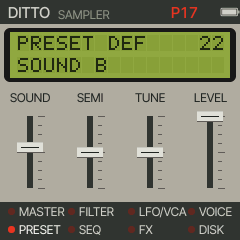
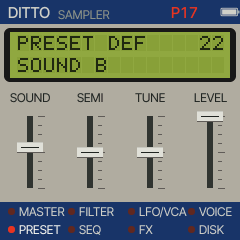
Ditto: the panel's blue: the splash (DITTO in wide heavy letters, tools/gen_logo.py) and the name and LED strips; the sliders' slots grey
Claude-Session: https://claude.ai/code/session_01TVJfaGTmFKC672U8St2zKY

Changed region(s): [[0.0, 0.8167, 1.0, 1.0], [0.0, 0.0, 1.0, 0.1167]]

diff --git a/firmware/src/golana_gfx.c b/firmware/src/golana_gfx.c
@@ -4,14 +4,14 @@
 
 /* ---------------------------------------------------------------- SPLASH --- */
 /* The power-on splash (3 s, NIGHT's colours whatever the palette): a record comes up and turns, the light on its
- * grooves going round; the tone arm swings in and sets the needle down; DITTO in block letters is uncovered by a
+ * grooves going round; the tone arm swings in and sets the needle down; DITTO in wide heavy letters is uncovered by a
  * wipe and a chrome glint crosses it, and the version comes up. Drawn at ~30 frames a second in two halves of
  * 240 x 120 (the canvas). main.c and the browser build run it (gu_splash_step); a key or a button pressed skips it
  * (the key stays silent: seq.c kb_boot_hold) */
 #define GSP_MS 3000u
-#define GSP_BG 0x0E1118u
+#define GSP_BG 0x1C346Eu                               /* the panel's blue */
 #define GSP_TEXT 0xE8E6E1u
-#define GSP_MID 0x969CACu
+#define GSP_MID 0xAABEE6u
 #define GSP_DISC 0x1A1E28u                              /* the vinyl, its grooves, the light on them */
 #define GSP_GROOVE 0x252A36u
 #define GSP_SHEEN 0x6A7186u
@@ -20,11 +20,7 @@
 #define GSP_CX 120
 #define GSP_CY 82
 #define GSP_R 60
-static const uint8_t GSP_GLYPH[5][7] = {                /* D I T T O, 5 x 7 (bit 4 the left column) */
-    {0x1E, 0x11, 0x11, 0x11, 0x11, 0x11, 0x1E}, {0x0E, 0x04, 0x04, 0x04, 0x04, 0x04, 0x0E},
-    {0x1F, 0x04, 0x04, 0x04, 0x04, 0x04, 0x04}, {0x1F, 0x04, 0x04, 0x04, 0x04, 0x04, 0x04},
-    {0x0E, 0x11, 0x11, 0x11, 0x11, 0x11, 0x0E},
-};
+#include "ditto_logo.h"                                /* DITTO, wide and heavy (tools/gen_logo.py) */
 static uint16_t gsp_rgb(uint32_t c) { return RGB((c >> 16) & 255u, (c >> 8) & 255u, c & 255u); }
 static uint16_t gsp_mix(uint32_t a, uint32_t b, int32_t k)   /* a .. b, k 0..1000 */
 {
@@ -101,22 +97,24 @@ static void gsp_draw(int32_t t)
         cv_line_t(214, 18, x, y, gsp_rgb(GSP_ARM), 3);
         cv_rect(x - 4, y - 3, 9, 7, gsp_rgb(GSP_ARM));  /* the head */
     }
-    if (t > 1300) {                                     /* DITTO: 6 x 6 px blocks (5 lit), 36 px a letter, from 33 */
-        int32_t sweep = t < 1800 ? -30 : t > 2300 ? 400 : (t - 1800) * 300 / 500 - 30, k, x, y;
-        for (k = 0; k < 5; k++)
-            for (y = 0; y < 7; y++)
-                for (x = 0; x < 5; x++) {
-                    int32_t px = 33 + k * 36 + x * 6, d = px - sweep;
-                    if (!((GSP_GLYPH[k][y] >> (4 - x)) & 1u) || px > wipe)
-                        continue;
-                    /* silver until the glint (a white band, 14 px each side) has passed over it, then the text's */
-                    cv_rect(px, 156 + y * 6, 5, 5, d > -14 && d < 14 ? gsp_mix(GSP_TEXT, 0xFFFFFFu, 1000 - (d < 0 ? -d : d) * 1000 / 14)
-                                                  : d >= 14 ? gsp_mix(GSP_TEXT, GSP_BG, 420) : gsp_rgb(GSP_TEXT));
-                }
+    if (t > 1300) {                                     /* DITTO, uncovered by the wipe, the glint crossing it */
+        int32_t sweep = t < 1800 ? -30 : t > 2300 ? 400 : (t - 1800) * 300 / 500 - 30, x, y;
+        int32_t x0 = (240 - LOGO_W) / 2, y0 = 150;
+        for (y = 0; y < LOGO_H; y++)
+            for (x = 0; x < LOGO_W && x0 + x <= wipe; x++) {
+                uint32_t a = (LOGO[(y * LOGO_W + x) >> 1] >> ((x & 1) * 4)) & 15u, c;
+                int32_t d = x0 + x - sweep;
+                if (!a)
+                    continue;
+                /* silver until the glint (a white band, 14 px each side) has passed over it, then the text's */
+                c = d > -14 && d < 14 ? 0xFFFFFFu : GSP_TEXT;
+                cv_rect(x0 + x, y0 + y, 1, 1, d >= 14 ? gsp_mix(GSP_BG, GSP_TEXT, (int32_t)a * 580 / 15)
+                                                       : gsp_mix(GSP_BG, c, (int32_t)a * 1000 / 15));
+            }
     }
     if (t > 2300) {                                     /* the version, faded in under the name */
         static const char V[] = FELUCCA_VERSION " \xB7 by Gadlele";
-        cv_text(120 - text_w(&AF_S, V) / 2, 206, &AF_S, V, gsp_mix(GSP_BG, GSP_MID, gsp_ease(t, 2300, 400)));
+        cv_text(120 - text_w(&AF_S, V) / 2, 200, &AF_S, V, gsp_mix(GSP_BG, GSP_MID, gsp_ease(t, 2300, 400)));
     }
 }
 static void gu_splash_frame(uint32_t t)

diff --git a/tools/gen_logo.py b/tools/gen_logo.py
@@ -1,0 +1,74 @@
+#!/usr/bin/env python3
+# SPDX-License-Identifier: GPL-3.0-only
+# Copyright (C) 2026 Gadlele
+"""Ditto's name as the power-on draws it: DITTO in wide, squared, heavy letters (the eighties' nameplates, after the
+lettering of the instrument it follows), drawn here as shapes 8x over and brought down to an anti-aliased 4-bit
+coverage map: LOGO_W x LOGO_H, two pixels a byte (the left one in the low nibble).
+  gen_logo.py OUT.h          (tools/build.py)
+  gen_logo.py --png OUT.png  a picture of it"""
+import sys
+
+from PIL import Image, ImageDraw
+
+S = 8                           # drawn S times over, then reduced
+H, W, T = 30, 38, 9             # a letter's height, a wide letter's width, the stroke
+GAP = 0.22 * W                  # between letters
+R = H * 0.32                    # the corners' radius
+
+
+def logo():
+    width = int(round(W * 4 + T + GAP * 4)) + 2
+    im = Image.new("L", (width * S, (H + 2) * S), 0)
+    d = ImageDraw.Draw(im)
+
+    def rr(box, r, fill):
+        d.rounded_rectangle([v * S for v in box], radius=r * S, fill=fill)
+
+    def rect(box, fill):
+        d.rectangle([v * S for v in box], fill=fill)
+
+    y, x = 1, 1.0
+
+    def ring(x):                # O: a rounded square ring; D: the same, its left side square
+        rr((x, y, x + W, y + H), R, 255)
+        rr((x + T, y + T, x + W - T, y + H - T), R - T * 0.9, 0)
+
+    ring(x)                     # D
+    rect((x, y, x + W * 0.35, y + H), 255)
+    rect((x + T, y + T, x + W * 0.4, y + H - T), 0)
+    x += W + GAP
+    rect((x, y, x + T, y + H), 255)                                     # I
+    x += T + GAP
+    for _ in range(2):                                                   # T T
+        rect((x, y, x + W, y + T), 255)
+        rect((x + W / 2 - T / 2, y, x + W / 2 + T / 2, y + H), 255)
+        x += W + GAP
+    ring(x)                                                              # O
+    return im.resize((width, H + 2), Image.LANCZOS)
+
+
+def main():
+    im = logo()
+    if sys.argv[1:2] == ["--png"]:
+        im.save(sys.argv[2])
+        return
+    w, h = im.size
+    px = im.load()
+    data = []
+    for yy in range(h):
+        for xx in range(0, w, 2):
+            a = px[xx, yy] * 15 // 255
+            b = px[xx + 1, yy] * 15 // 255 if xx + 1 < w else 0
+            data.append(a | b << 4)
+    lines = ["/* generated by tools/gen_logo.py: DITTO, the power-on's name, 4-bit coverage, two pixels a byte */",
+             "#pragma once", "#include <stdint.h>", f"#define LOGO_W {w}", f"#define LOGO_H {h}",
+             f"static const uint8_t LOGO[{len(data)}] = {{"]
+    for i in range(0, len(data), 32):
+        lines.append("    " + ",".join(map(str, data[i:i + 32])) + ",")
+    lines.append("};")
+    open(sys.argv[1], "w").write("\n".join(lines) + "\n")
+    print(f"logo: {w} x {h}, {len(data)} B -> {sys.argv[1]}")
+
+
+if __name__ == "__main__":
+    main()

diff --git a/firmware/src/golana_ui.c b/firmware/src/golana_ui.c
@@ -27,7 +27,8 @@
 #define GC_PANEL RGB(178, 175, 166)                 /* the panel's grey */
 #define GC_PANEL2 RGB(160, 157, 148)                /* its grooves, recesses */
 #define GC_EDGE RGB(206, 203, 195)                  /* a lit edge */
-#define GC_STRIP RGB(54, 53, 50)                    /* the dark strips: name, LEDs */
+#define GC_STRIP RGB(28, 52, 110)                   /* the blue strips: name, LEDs */
+#define GC_SLOT RGB(54, 53, 50)                     /* a slider's slot */
 #define GC_INK RGB(36, 36, 34)                      /* printing on the panel */
 #define GC_MIDI RGB(96, 94, 88)
 #define GC_PRINT RGB(214, 211, 202)                 /* printing on the dark strips */
@@ -550,7 +551,7 @@ static void gu_draw_card(uint32_t k)
     cv_text(cx - text_w(&AF_S, q->label) / 2, 2, &AF_S, q->label, GC_INK);
     {   /* the slot, ticks beside it every eighth */
         int32_t t;
-        cv_rect(cx - 3, top, 6, bot - top, GC_STRIP);
+        cv_rect(cx - 3, top, 6, bot - top, GC_SLOT);
         for (t = 0; t <= 8; t++)
             cv_rect(cx + 8, top + (bot - top) * t / 8, t % 4 ? 4 : 7, 1, GC_MIDI);
     }

diff --git a/tools/build.py b/tools/build.py
@@ -105,7 +105,8 @@ def generate():
             [tools / "gen_samples.py", GEN / "felucca_samples.h"],
             [tools / "gen_samples.py", "--lite", GEN / "felucca_samples_lite.h"],
             [tools / "gen_ditto_samples.py", GEN / "ditto_samples.h"],
-            [tools / "gen_lcd_font.py", GEN / "lcd_font.h"]]
+            [tools / "gen_lcd_font.py", GEN / "lcd_font.h"],
+            [tools / "gen_logo.py", GEN / "ditto_logo.h"]]
     procs = [subprocess.Popen([sys.executable, *map(str, c)], stdout=subprocess.PIPE, stderr=subprocess.STDOUT,
                               text=True) for c in cmds]
     failed = []
